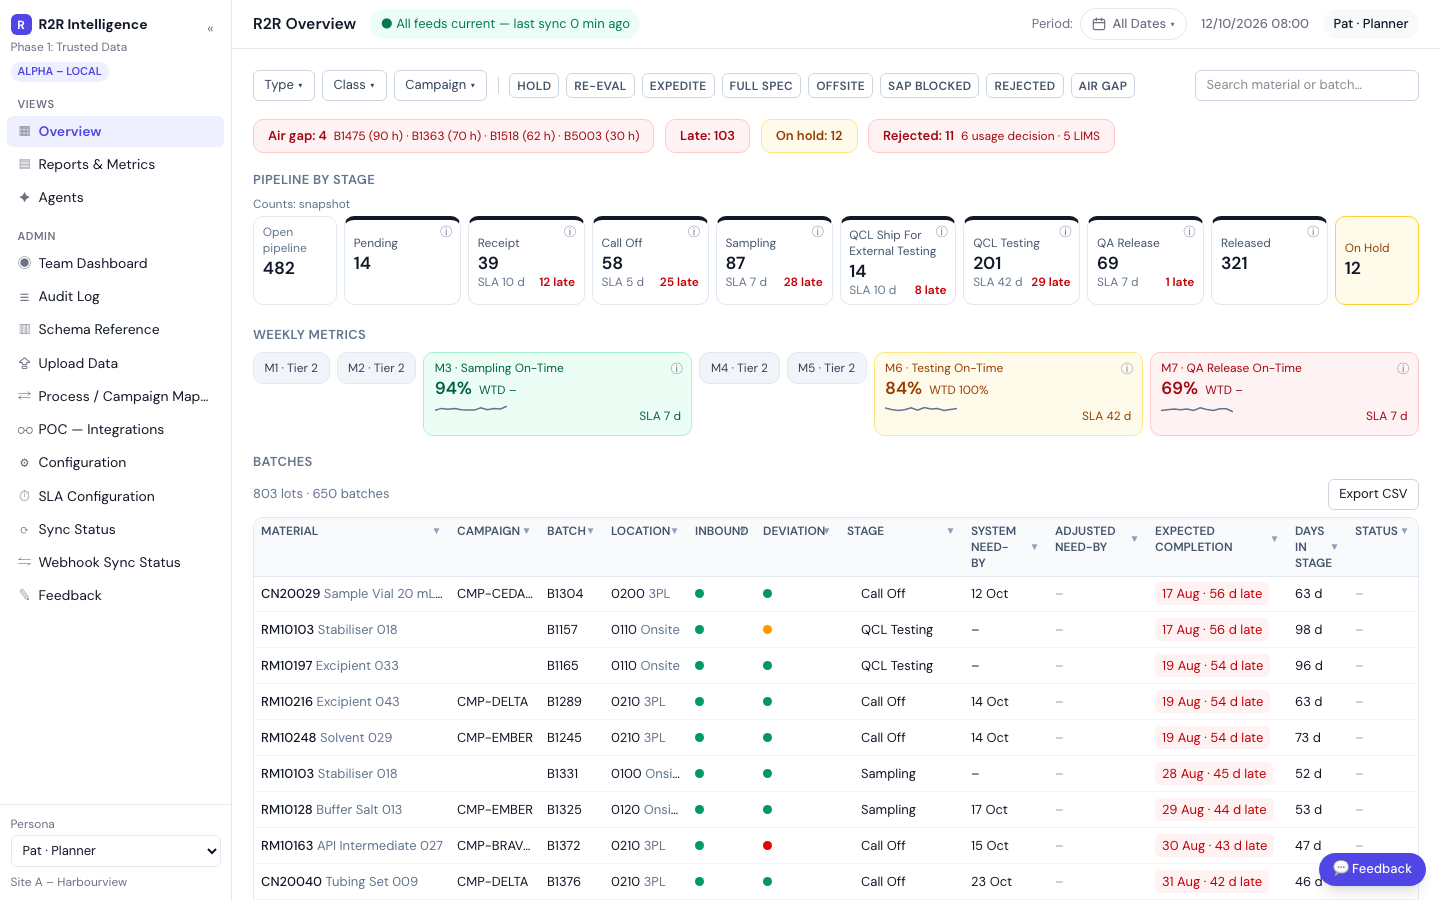
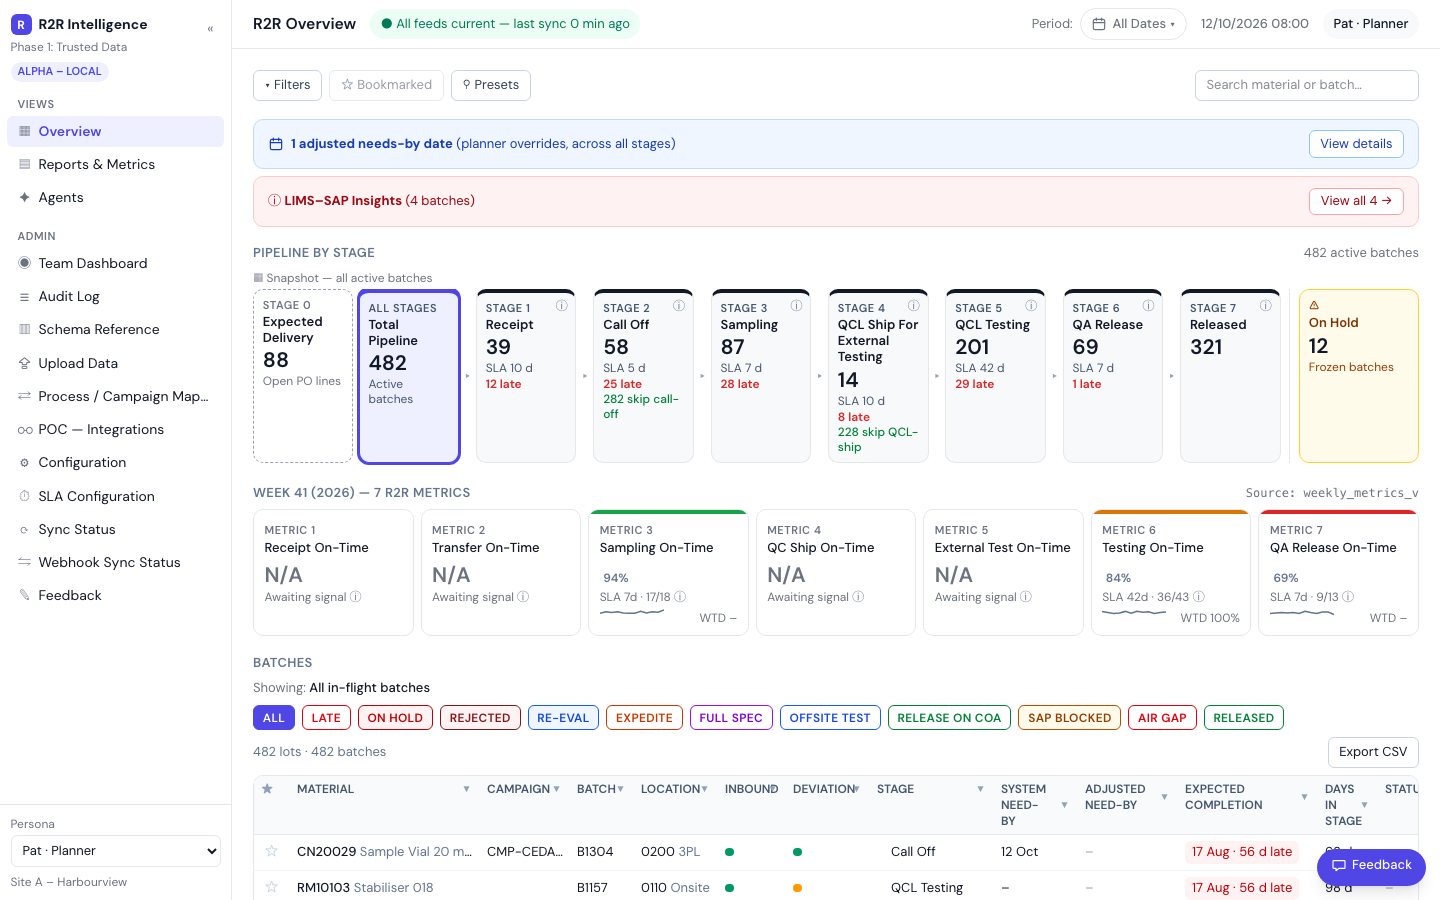
test(F17): Playwright for AC-01 to AC-05, 1440x900 screenshot, one chip per stage, contrast fixes; set F17 to review [F17-AC-01, F17-AC-07]

diff --git a/tests/e2e/specs/03-stage-filter.spec.ts b/tests/e2e/specs/03-stage-filter.spec.ts
@@ -8,7 +8,7 @@ test('F10-AC-03: clicking QCL Testing filters the table, puts stage= in the URL 
 
   await expect(page).toHaveURL(/stage=qc_testing/)
   await expect(page.getByTestId('flow-qc_testing')).toHaveAttribute('aria-pressed', 'true')
-  const count = await page.getByTestId('flow-qc_testing').locator('div').nth(1).innerText()
+  const count = await page.getByTestId('flow-qc_testing').locator('div').nth(2).innerText()
   await expect(page.getByTestId('row-count')).toContainText(`${count} lots`)
   for (const cell of await page.getByTestId('batch-row').locator('[role=cell]:nth-child(8)').allInnerTexts()) {
     expect(cell).toContain('QCL Testing')
@@ -18,4 +18,55 @@ test('F10-AC-03: clicking QCL Testing filters the table, puts stage= in the URL 
   await expect(page).toHaveURL(/stage=qc_testing/)
   await expect(page.getByTestId('flow-qc_testing')).toHaveAttribute('aria-pressed', 'true')
   await expect(page.getByTestId('row-count')).toContainText(`${count} lots`)
+})
+
+test('F17-AC-02: Sampling + QCL Ship + QCL Testing filter the table, the card counts stay, and three chips appear', async ({ page }) => {
+  await page.goto('/overview')
+  await expect(page.getByTestId('batch-row').first()).toBeVisible()
+  const before = await page.locator('button[data-testid^="flow-"]').evaluateAll((nodes) => nodes.map((node) => node.textContent))
+  await expect(page.getByTestId('flow-total')).toHaveAttribute('aria-pressed', 'true')
+  for (const stage of ['sampling', 'qc_ship', 'qc_testing']) await page.getByTestId(`flow-${stage}`).click()
+  await expect(page).toHaveURL(/stage=sampling&stage=qc_ship&stage=qc_testing/)
+  await expect(page.getByTestId('flow-total')).toHaveAttribute('aria-pressed', 'false')
+  await expect(page.getByRole('button', { name: '✕ Clear 3 stages' })).toBeVisible()
+  await expect(page.getByTestId('filter-chips').getByText(/^Stage: /)).toHaveCount(3)
+  await expect(page.getByTestId('showing-line')).toContainText('3 stages selected')
+  const after = await page.locator('button[data-testid^="flow-"]').evaluateAll((nodes) => nodes.map((node) => node.textContent))
+  expect(after).toEqual(before)
+  const counts = await Promise.all(['sampling', 'qc_ship', 'qc_testing'].map(async (s) => Number(await page.getByTestId(`flow-${s}`).locator('div').nth(2).innerText())))
+  await expect(page.getByTestId('row-count')).toContainText(`${counts.reduce((a, b) => a + b, 0)} lots`)
+  await page.getByRole('button', { name: '✕ Clear 3 stages' }).click()
+  await expect(page).not.toHaveURL(/stage=/)
+  await expect(page.getByTestId('flow-total')).toHaveAttribute('aria-pressed', 'true')
+})
+
+test('F17-AC-01 / AC-08: Expected Delivery shows the open PO lines, Total Pipeline shows 482, and the table shows 482 in-flight lots', async ({ page }) => {
+  await page.goto('/overview')
+  await expect(page.getByTestId('batch-row').first()).toBeVisible()
+  await expect(page.getByTestId('flow-total')).toContainText('482')
+  await expect(page.getByTestId('active-batches')).toHaveText('482 active batches')
+  await expect(page.getByTestId('row-count')).toContainText('482 lots')
+  const lines = Number(await page.getByTestId('expected-delivery-count').innerText())
+  expect(lines).toBeGreaterThanOrEqual(60)
+  expect(lines).toBeLessThanOrEqual(90)
+  await page.getByTestId('flow-expected-delivery').click()
+  await expect(page.getByRole('dialog')).toContainText(`${lines} open PO lines`)
+  await expect(page.getByTestId('window-row').first()).toBeVisible()
+  await page.keyboard.press('Escape')
+  await page.getByTestId('flow-released').click()
+  await expect(page.getByTestId('row-count')).toContainText('321 lots')
+})
+
+test('F17-AC-03: the Call Off and QCL Ship cards show their skip counts, and Pending has no card', async ({ page }) => {
+  await page.goto('/overview')
+  await expect(page.getByTestId('skip-qc_ship')).toContainText(/^\d+ skip /)
+  await expect(page.getByTestId('flow-pending')).toHaveCount(0)
+  await expect(page.getByTestId('skip-call_off')).toContainText(/^\d+ skip call-off$/)
+})
+
+test('F17-FR-10: the RELEASED tag shows the 321 released lots, like the Released card', async ({ page }) => {
+  await page.goto('/overview')
+  await expect(page.getByTestId('batch-row').first()).toBeVisible()
+  await page.getByTestId('tag-released').click()
+  await expect(page.getByTestId('row-count')).toContainText('321 lots')
 })

diff --git a/frontend/src/lib/tags.ts b/frontend/src/lib/tags.ts
@@ -20,16 +20,16 @@ export interface Tag {
  */
 export const tagRow = (terms: Terms): Tag[] => [
   { id: 'late', label: 'LATE', keys: ['late'], off: 'border-red-600 text-red-600 bg-white hover:bg-red-50', on: 'border-red-600 bg-red-600 text-white' },
-  { id: 'on_hold', label: 'ON HOLD', keys: ['on_hold'], off: 'border-red-500 text-red-600 bg-red-50 hover:bg-red-100', on: 'border-red-500 bg-red-500 text-white' },
+  { id: 'on_hold', label: 'ON HOLD', keys: ['on_hold'], off: 'border-red-700 text-red-700 bg-red-50 hover:bg-red-100', on: 'border-red-700 bg-red-700 text-white' },
   { id: 'rejected', label: 'REJECTED', keys: ['ud_rejected', 'lims_rejected'], off: 'border-red-900 text-red-900 bg-red-50 hover:bg-red-100', on: 'border-red-900 bg-red-900 text-white' },
   { id: 're_eval', label: 'RE-EVAL', keys: ['re_eval'], off: 'border-blue-600 text-blue-700 bg-blue-50 hover:bg-blue-100', on: 'border-blue-600 bg-blue-600 text-white' },
-  { id: 'expedite', label: 'EXPEDITE', keys: ['expedite'], off: 'border-orange-500 text-orange-600 bg-white hover:bg-orange-50', on: 'border-orange-500 bg-orange-500 text-white' },
+  { id: 'expedite', label: 'EXPEDITE', keys: ['expedite'], off: 'border-orange-700 text-orange-700 bg-white hover:bg-orange-50', on: 'border-orange-700 bg-orange-700 text-white' },
   { id: 'full_spec', label: 'FULL SPEC', keys: ['full_spec'], off: 'border-purple-600 text-purple-700 bg-white hover:bg-purple-50', on: 'border-purple-600 bg-purple-600 text-white' },
   { id: 'offsite', label: 'OFFSITE TEST', keys: ['offsite'], off: 'border-blue-600 text-blue-700 bg-white hover:bg-blue-50', on: 'border-blue-600 bg-blue-600 text-white' },
-  { id: 'release_on_coa', label: 'RELEASE ON COA', keys: ['release_on_coa'], off: 'border-green-600 text-green-700 bg-white hover:bg-green-50', on: 'border-green-600 bg-green-600 text-white' },
-  { id: 'erp_blocked', label: terms.erp_blocked_tag, keys: ['erp_blocked'], off: 'border-amber-500 text-amber-800 bg-amber-50 hover:bg-amber-100', on: 'border-amber-500 bg-amber-500 text-white' },
+  { id: 'release_on_coa', label: 'RELEASE ON COA', keys: ['release_on_coa'], off: 'border-green-700 text-green-700 bg-white hover:bg-green-50', on: 'border-green-700 bg-green-700 text-white' },
+  { id: 'erp_blocked', label: terms.erp_blocked_tag, keys: ['erp_blocked'], off: 'border-amber-700 text-amber-800 bg-amber-50 hover:bg-amber-100', on: 'border-amber-700 bg-amber-700 text-white' },
   { id: 'air_gap', label: 'AIR GAP', keys: ['air_gap'], off: 'border-red-600 text-red-600 bg-white hover:bg-red-50', on: 'border-red-600 bg-red-600 text-white' },
-  { id: 'released', label: 'RELEASED', keys: ['released'], off: 'border-green-600 text-green-700 bg-white hover:bg-green-50', on: 'border-green-600 bg-green-600 text-white' },
+  { id: 'released', label: 'RELEASED', keys: ['released'], off: 'border-green-700 text-green-700 bg-white hover:bg-green-50', on: 'border-green-700 bg-green-700 text-white' },
 ]
 
 export const tagIsOn = (tag: Tag, flags: string[]) => tag.keys.every((key) => flags.includes(key))

diff --git a/tests/e2e/specs/05-metrics.spec.ts b/tests/e2e/specs/05-metrics.spec.ts
@@ -1,11 +1,39 @@
 import { expect, test } from '@playwright/test'
 
-test('F10-AC-06: M1, M2, M4 and M5 are compact "Mx · Tier 2" chips with the reason as a tooltip', async ({ page }) => {
+test('F10-AC-06 / F17-FR-06: M1, M2, M4 and M5 read N/A with the reason in the tooltip', async ({ page }) => {
   await page.goto('/overview')
   for (const id of ['M1', 'M2', 'M4', 'M5']) {
-    const chip = page.getByTestId(`metric-${id}`)
-    await expect(chip).toHaveText(`${id} · Tier 2`)
-    await expect(chip).toHaveAttribute('title', /enabled in Tier 2/)
+    const card = page.getByTestId(`metric-${id}`)
+    await expect(card.getByTestId('metric-headline')).toHaveText('N/A')
+    await expect(card.getByTestId('metric-info')).toHaveAttribute('title', /enabled in Tier 2/)
   }
   await expect(page.getByTestId('metric-M3').getByTestId('metric-headline')).toContainText('%')
+})
+
+test('F17-AC-04: the header reads Week 41 (2026) and M3 is 94% green, M6 84% amber, M7 69% red with their counts', async ({ page }) => {
+  await page.goto('/overview')
+  await expect(page.getByRole('region', { name: /Week 41 \(2026\) — 7 R2R Metrics/ })).toBeVisible()
+  await expect(page.getByText('Source: weekly_metrics_v')).toBeVisible()
+  const expected = { M3: ['94%', 'green', '17/18'], M6: ['84%', 'amber', '36/43'], M7: ['69%', 'red', '9/13'] }
+  for (const [id, [pct, rag, counts]] of Object.entries(expected)) {
+    const card = page.getByTestId(`metric-${id}`)
+    await expect(card.getByTestId('metric-headline')).toHaveText(pct as string)
+    await expect(card).toHaveAttribute('data-rag', rag as string)
+    await expect(card.getByTestId('metric-counts')).toContainText(counts as string)
+  }
+})
+
+test('F17-AC-05: ON HOLD + EXPEDITE show rows with either, Clear tags restores everything, and no alert band exists', async ({ page }) => {
+  await page.goto('/overview')
+  await expect(page.getByTestId('batch-row').first()).toBeVisible()
+  await expect(page.getByTestId('row-count')).toContainText('482 lots')
+  await page.getByTestId('tag-on_hold').click()
+  await page.getByTestId('tag-expedite').click()
+  await expect(page).toHaveURL(/flag=on_hold&flag=expedite/)
+  const filtered = Number((await page.getByTestId('row-count').innerText()).match(/(\d+) lots/)?.[1])
+  expect(filtered).toBeGreaterThan(0)
+  expect(filtered).toBeLessThan(482)
+  await page.getByRole('button', { name: 'Clear tags' }).click()
+  await expect(page.getByTestId('row-count')).toContainText('482 lots')
+  await expect(page.getByTestId('alert-late')).toHaveCount(0)
 })

diff --git a/frontend/src/components/pipeline/StageCard.tsx b/frontend/src/components/pipeline/StageCard.tsx
@@ -28,25 +28,23 @@ export function StageCard({ testId, eyebrow, title, count, selected, onClick, de
         aria-pressed={selected}
         onClick={onClick}
         style={barColor ? { borderTopColor: barColor } : undefined}
-        className={`w-full rounded-card border border-t-4 px-2.5 py-2 text-left hover:shadow ${
+        className={`flex h-full w-full flex-col justify-start rounded-card border border-t-4 px-2.5 py-2 text-left hover:shadow ${
           selected ? 'border-accent bg-accent-tint ring-2 ring-accent' : 'border-hairline bg-panel'
         }`}
       >
-        <div className="text-[11px] font-semibold tracking-wider text-ink-2 uppercase">{eyebrow}</div>
-        <div className="truncate text-sm font-semibold text-ink" title={title}>
+        <div className="text-[11px] font-semibold tracking-wider text-slate-600 uppercase">{eyebrow}</div>
+        <div className="text-sm leading-tight font-semibold text-ink">
           {title}
         </div>
         <div className="text-2xl font-semibold tabular-nums">{count}</div>
-        <div className="flex min-h-4 items-center justify-between gap-1.5 text-xs whitespace-nowrap">
-          <span className="text-ink-2">{detail}</span>
-          {late > 0 && (
-            <span className="font-semibold text-rag-red" data-testid={`late-${testId.replace('flow-', '')}`}>
-              {late} late
-            </span>
-          )}
-        </div>
+        {detail && <div className="text-xs leading-tight text-slate-600">{detail}</div>}
+        {late > 0 && (
+          <div className="text-xs font-semibold whitespace-nowrap text-rag-red" data-testid={`late-${testId.replace('flow-', '')}`}>
+            {late} late
+          </div>
+        )}
         {skip && (
-          <div className="text-xs font-medium text-rag-green" data-testid={`skip-${testId.replace('flow-', '')}`}>
+          <div className="text-xs leading-tight font-medium text-green-700" data-testid={`skip-${testId.replace('flow-', '')}`}>
             {skip}
           </div>
         )}

diff --git a/frontend/src/components/metrics/MetricCard.tsx b/frontend/src/components/metrics/MetricCard.tsx
@@ -24,7 +24,7 @@ export function MetricCard({ metric, stageLabel }: Props) {
   const number = metric.metric_id.replace(/^\D+/, '')
   const heading = (
     <>
-      <div className="text-[11px] font-semibold tracking-wider text-ink-3 uppercase">Metric {number}</div>
+      <div className="text-[11px] font-semibold tracking-wider text-ink-2 uppercase">Metric {number}</div>
       <div className="truncate text-sm font-medium text-ink" title={metric.label}>
         {metric.label}
       </div>
@@ -35,7 +35,7 @@ export function MetricCard({ metric, stageLabel }: Props) {
     return (
       <div data-testid={`metric-${metric.metric_id}`} className="relative overflow-hidden rounded-card border border-hairline bg-white px-3 pt-3.5 pb-2">
         {heading}
-        <div className="mt-1 text-2xl font-semibold text-ink-3" data-testid="metric-headline">
+        <div className="mt-1 text-2xl font-semibold text-ink-2" data-testid="metric-headline">
           N/A
         </div>
         <div className="text-xs text-ink-2">
@@ -79,7 +79,7 @@ export function MetricCard({ metric, stageLabel }: Props) {
       </div>
       <div className="mt-1 flex items-center justify-between">
         <Sparkline values={complete.map((week) => pct(week.pct))} width={64} height={20} />
-        <span className="text-xs text-ink-3" data-testid="metric-wtd">
+        <span className="text-xs text-ink-2" data-testid="metric-wtd">
           WTD {toDate && toDate.pct !== null ? `${Number(toDate.pct).toFixed(0)}%` : '–'}
         </span>
       </div>

diff --git a/tests/e2e/specs/01-overview-load.spec.ts b/tests/e2e/specs/01-overview-load.spec.ts
@@ -11,7 +11,8 @@ test('F10-AC-01: the Overview loads with seeded data in under 2 s and renders ev
   expect(elapsed, `Overview took ${elapsed} ms`).toBeLessThan(2000)
 
   await expect(page.getByRole('region', { name: 'Filters' })).toBeVisible()
-  await expect(page.getByRole('region', { name: 'Alerts' })).toBeVisible()
+  await expect(page.getByRole('region', { name: 'Alerts' })).toHaveCount(0) // F17-FR-09: the alert band is gone
+  await expect(page.getByTestId('tag-row')).toBeVisible()
   await expect(page.getByRole('region', { name: 'Pipeline by Stage' })).toBeVisible()
   await expect(page.getByTestId('metrics-ribbon')).toBeVisible()
   await expect(page.getByRole('table', { name: 'Batches' })).toBeVisible()
@@ -20,7 +21,7 @@ test('F10-AC-01: the Overview loads with seeded data in under 2 s and renders ev
   expect(errors, 'console errors').toEqual([])
 })
 
-test('F10 review: all flow cards are the same height and the "SLA · late" line never wraps at 1440 px', async ({ page }) => {
+test('F10 review: all flow cards are the same height and the footer lines never wrap at 1440 px', async ({ page }) => {
   await page.goto('/overview')
   const cards = page.locator('button[data-testid^="flow-"]')
   await expect(cards.first()).toBeVisible()

diff --git a/frontend/src/components/filters/FilterBar.test.tsx b/frontend/src/components/filters/FilterBar.test.tsx
@@ -153,11 +153,12 @@ test('F17-FR-08: tags in the URL appear as filter chips when the panel is closed
   expect(screen.getByTestId('url')).not.toHaveTextContent('on_hold')
 })
 
-test('F17-FR-05: several stages collapse to one chip that removes them all', async () => {
-  renderAt('/overview?stage=sampling&stage=qc_testing')
-  expect(screen.getByText('Stage: 2 stages')).toBeInTheDocument()
-  await userEvent.click(screen.getByRole('button', { name: 'Remove Stage: 2 stages' }))
-  expect(screen.getByTestId('url')).not.toHaveTextContent('stage')
+test('F17-AC-02: each selected stage is its own chip, and removing one keeps the others in the URL', async () => {
+  renderAt('/overview?stage=sampling&stage=qc_ship&stage=qc_testing')
+  for (const key of ['sampling', 'qc_ship', 'qc_testing']) expect(screen.getByText(`Stage: ${key}`)).toBeInTheDocument()
+  await userEvent.click(screen.getByRole('button', { name: 'Remove Stage: qc_ship' }))
+  expect(screen.getByTestId('url')).toHaveTextContent('stage=sampling&stage=qc_testing')
+  expect(screen.getByTestId('url')).not.toHaveTextContent('qc_ship')
 })
 
 test('F15-FR-05: Type options show the labels from the reference, not the keys', async () => {

diff --git a/tests/e2e/specs/04-period.spec.ts b/tests/e2e/specs/04-period.spec.ts
@@ -2,7 +2,7 @@ import { expect, test } from '@playwright/test'
 
 test('F10-AC-04: This week switches the caption to "due in period" and keeps overdue rows', async ({ page }) => {
   await page.goto('/overview')
-  await expect(page.getByTestId('flow-caption')).toContainText('snapshot')
+  await expect(page.getByTestId('flow-caption')).toContainText(/snapshot/i)
   // The first row is the most overdue one (exceptions first); it must survive the period filter.
   const overdueKey = await page.getByTestId('batch-row').first().getAttribute('data-row-key')
   expect(overdueKey).toBeTruthy()
@@ -11,7 +11,7 @@ test('F10-AC-04: This week switches the caption to "due in period" and keeps ove
   await page.getByRole('button', { name: 'This Week' }).click()
 
   await expect(page).toHaveURL(/period=this_week/)
-  await expect(page.getByTestId('flow-caption')).toContainText('due in period')
+  await expect(page.getByTestId('flow-caption')).toContainText(/due in period/i)
   await expect(page.locator(`[data-testid=batch-row][data-row-key="${overdueKey}"]`)).toBeVisible()
   await expect(page.getByTestId('rag-cell').filter({ hasText: 'late' }).first()).toBeVisible()
 })

diff --git a/frontend/src/components/pipeline/ExpectedDeliveryCard.tsx b/frontend/src/components/pipeline/ExpectedDeliveryCard.tsx
@@ -12,14 +12,14 @@ export function ExpectedDeliveryCard({ count, caption, onOpen }: Props) {
         type="button"
         data-testid="flow-expected-delivery"
         onClick={onOpen}
-        className="w-full rounded-card border border-dashed border-ink-3 bg-white px-2.5 py-2 text-left hover:shadow"
+        className="flex h-full w-full flex-col justify-start rounded-card border border-dashed border-ink-3 bg-white px-2.5 py-2 text-left hover:shadow"
       >
         <div className="text-[11px] font-semibold tracking-wider text-ink-2 uppercase">Stage 0</div>
-        <div className="truncate text-sm font-semibold text-ink">Expected Delivery</div>
+        <div className="text-sm leading-tight font-semibold text-ink">Expected Delivery</div>
         <div className="text-2xl font-semibold tabular-nums" data-testid="expected-delivery-count">
           {count}
         </div>
-        <div className="text-xs text-ink-2">{caption}</div>
+        <div className="text-xs leading-tight text-ink-2">{caption}</div>
       </button>
     </div>
   )

diff --git a/frontend/src/components/pipeline/OnHoldCard.tsx b/frontend/src/components/pipeline/OnHoldCard.tsx
@@ -12,12 +12,12 @@ export function OnHoldCard({ count, active, onToggle }: Props) {
       data-testid="flow-on_hold"
       aria-pressed={active}
       onClick={onToggle}
-      className={`min-w-[92px] flex-1 rounded-card border border-amber-300 bg-amber-50 px-2.5 py-2 text-left hover:shadow ${active ? 'ring-2 ring-accent' : ''}`}
+      className={`flex min-w-[92px] flex-1 flex-col justify-start rounded-card border border-amber-300 bg-amber-50 px-2.5 py-2 text-left hover:shadow ${active ? 'ring-2 ring-accent' : ''}`}
     >
       <div className="text-[11px] font-semibold tracking-wider text-amber-800 uppercase">⚠</div>
       <div className="text-sm font-semibold text-amber-900">On Hold</div>
       <div className="text-2xl font-semibold tabular-nums">{count}</div>
-      <div className="text-xs text-amber-800">Frozen batches</div>
+      <div className="text-xs leading-tight text-amber-800">Frozen batches</div>
     </button>
   )
 }

diff --git a/frontend/src/components/filters/FilterChips.tsx b/frontend/src/components/filters/FilterChips.tsx
@@ -33,9 +33,8 @@ export function filterChips(
   list('types', 'Type', 'type', (key) => labelled(reference?.molecule_types, key))
   list('classes', 'Class', 'class', (key) => labelled(reference?.classes, key))
   list('campaigns', 'Campaign', 'campaign', (key) => key)
-  if (filters.stages.length > 0) {
-    const text = filters.stages.length === 1 ? stageLabel(filters.stages[0]!) : plural(filters.stages.length, 'stage')
-    chips.push({ id: 'stage', text: `Stage: ${text}`, remove: { stages: [] } })
+  for (const stage of filters.stages) {
+    chips.push({ id: `stage-${stage}`, text: `Stage: ${stageLabel(stage)}`, remove: { stages: filters.stages.filter((s) => s !== stage) } })
   }
   for (const tag of selectedTags(terms, filters.flags)) {
     chips.push({ id: `tag-${tag.id}`, text: `Tag: ${tag.label}`, remove: { flags: filters.flags.filter((flag) => !tag.keys.includes(flag)) } })

diff --git a/frontend/src/components/tags/TagRow.test.tsx b/frontend/src/components/tags/TagRow.test.tsx
@@ -42,8 +42,8 @@ test('F17-AC-05: ON HOLD + EXPEDITE are ORed in the URL, fill solid, switch ALL 
   await userEvent.click(screen.getByTestId('tag-on_hold'))
   await userEvent.click(screen.getByTestId('tag-expedite'))
   expect(screen.getByTestId('url')).toHaveTextContent('flag=on_hold&flag=expedite')
-  expect(screen.getByTestId('tag-on_hold')).toHaveClass('bg-red-500', 'text-white')
-  expect(screen.getByTestId('tag-expedite')).toHaveClass('bg-orange-500', 'text-white')
+  expect(screen.getByTestId('tag-on_hold')).toHaveClass('bg-red-700', 'text-white')
+  expect(screen.getByTestId('tag-expedite')).toHaveClass('bg-orange-700', 'text-white')
   expect(screen.getByTestId('tag-late')).not.toHaveClass('bg-red-600')
   expect(screen.getByTestId('tag-all')).toHaveAttribute('aria-pressed', 'false')
   expect(screen.getByTestId('showing-line')).toHaveTextContent('Showing: 2 tags')
